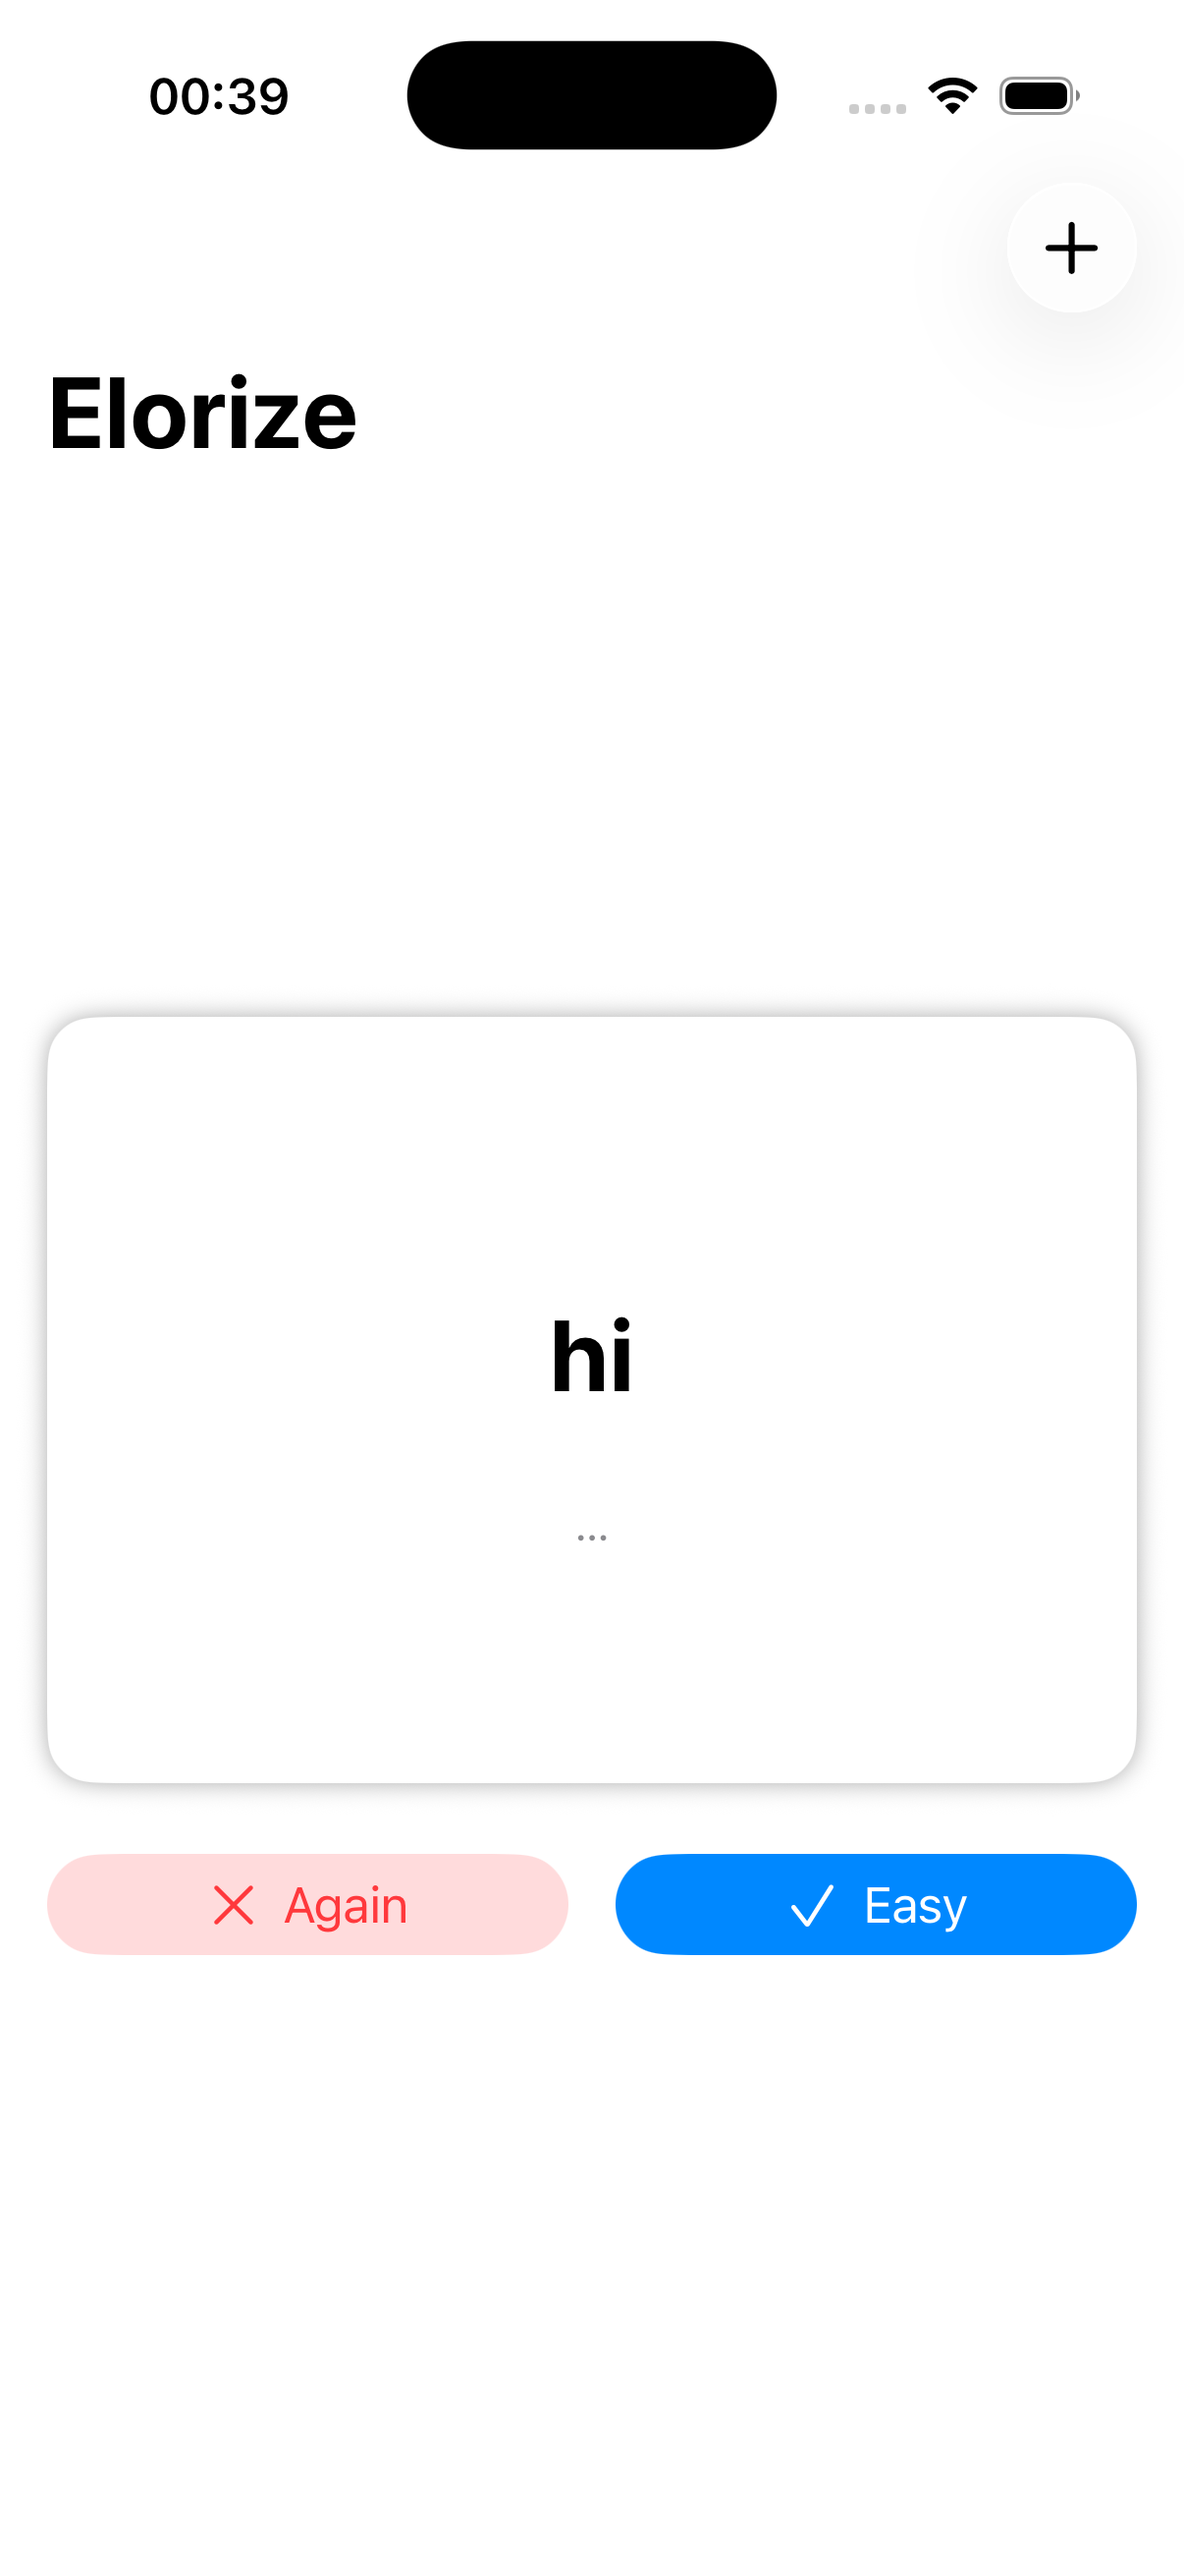
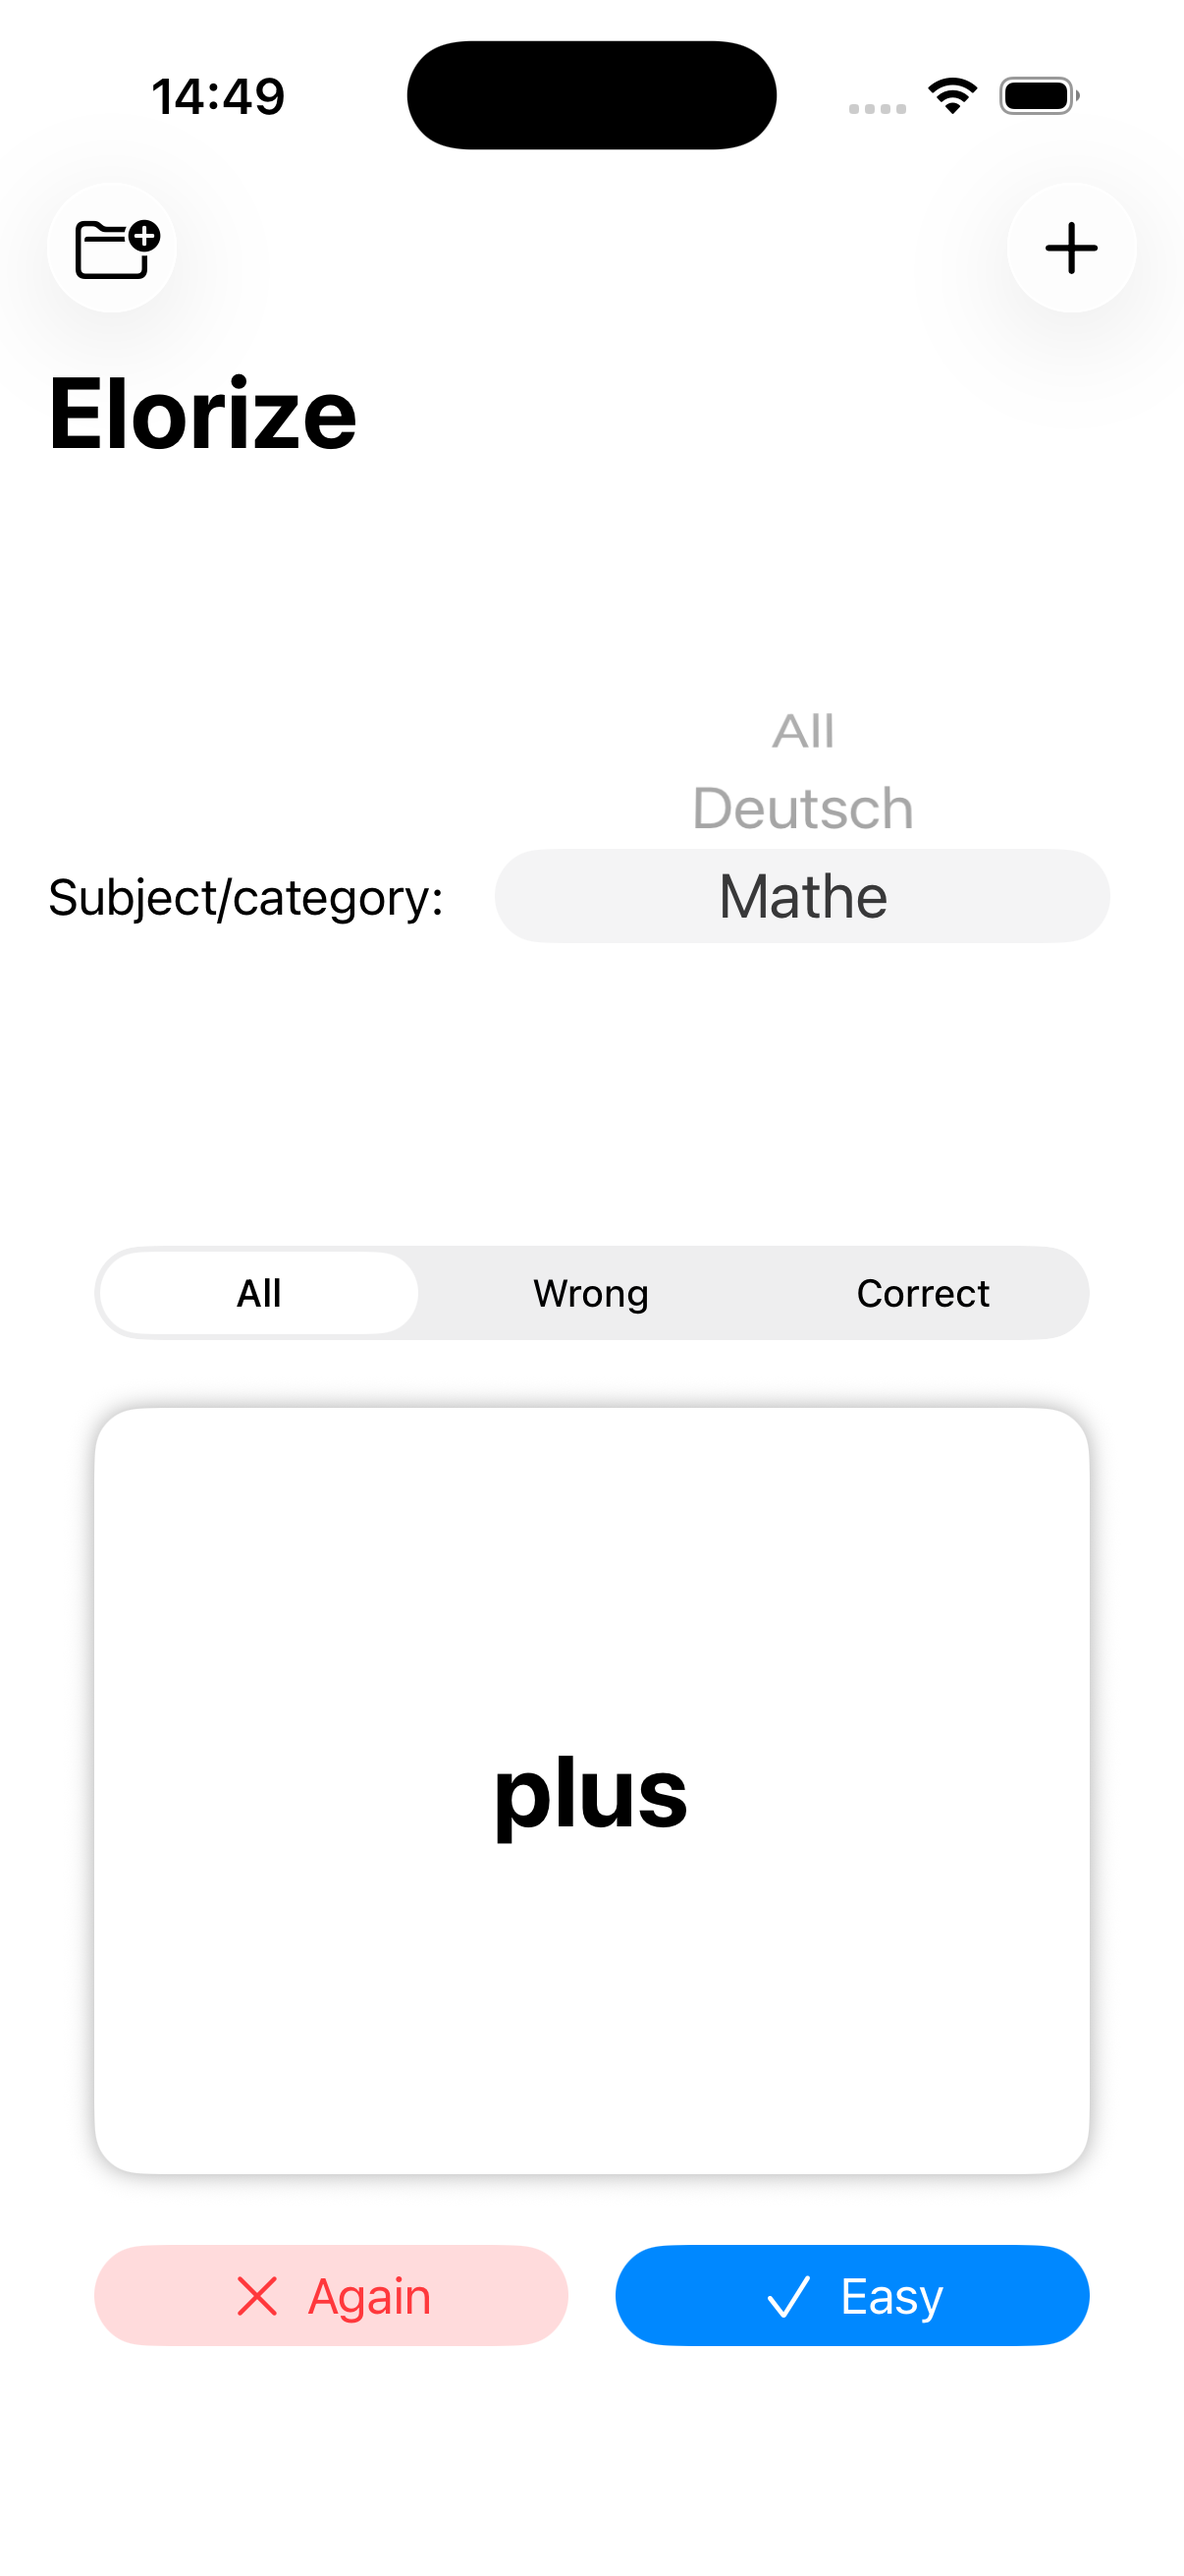
filter cards depending on review

diff --git a/Elorize/HomeView.swift b/Elorize/HomeView.swift
@@ -10,6 +10,9 @@ struct HomeView: View {
 	@State private var showingAddSheet = false
 	@State private var currentIndex = 0
 	
+    enum ReviewFilter: String, CaseIterable, Identifiable { case all = "All", wrong = "Wrong", correct = "Correct"; var id: String { rawValue } }
+    @State private var reviewFilter: ReviewFilter = .all
+	
 	@Query(sort: [SortDescriptor(\SubjectEntity.name, order: .forward)])
 	private var subjects: [SubjectEntity]
 	
@@ -22,6 +25,17 @@ struct HomeView: View {
 			return flashCardEntities // All subjects
 		}
 	}
+    
+	private var filteredByOutcome: [FlashCardEntity] {
+			switch reviewFilter {
+			case .all:
+					return filteredFlashCardEntities
+			case .wrong:
+					return filteredFlashCardEntities.filter { ($0.lastQuality ?? 0) <= 2 }
+			case .correct:
+					return filteredFlashCardEntities.filter { ($0.lastQuality ?? 0) >= 3 }
+			}
+	}
 	
 	@State private var generator = FlashcardGenerator()
 	@State private var reviewer = Reviewer()
@@ -29,34 +43,46 @@ struct HomeView: View {
 	var body: some View {
 		NavigationStack {
 			VStack {
-				if subjects.isEmpty {
-					ContentUnavailableView("No Subjects", systemImage: "folder.badge.questionmark", description: Text("Add a subject to get started."))
-				} else {
-					Picker("Subject", selection: $selectedSubjectID) {
-						Text("All").tag(UUID?.none)
-						ForEach(subjects) { subject in
-							Text(subject.name).tag(Optional(subject.id))
+				HStack {
+					Text("Subject/category:")
+					Spacer()
+					if subjects.isEmpty {
+						ContentUnavailableView("No Subjects", systemImage: "folder.badge.questionmark", description: Text("Add a subject to get started."))
+					} else {
+						Picker("Subject", selection: $selectedSubjectID) {
+							Text("All").tag(UUID?.none)
+							ForEach(subjects) { subject in
+								Text(subject.name).tag(Optional(subject.id))
+							}
 						}
+						.pickerStyle(.inline) // or .menu, depending on space
 					}
-					.pickerStyle(.segmented) // or .menu, depending on space
-					.padding(.horizontal)
 				}
+				Picker("FilterByKnowledge", selection: $reviewFilter) {
+						ForEach(ReviewFilter.allCases) { f in Text(f.rawValue).tag(f) }
+				}
+				.pickerStyle(.segmented)
+				.padding(.horizontal)
+				Spacer()
 				Group {
-					if let entity = generator.nextCardEntity(filteredFlashCardEntities, index: currentIndex) {
+					if let entity = generator.nextCardEntity(filteredByOutcome, index: currentIndex) {
 						FlashCardView(card: entity.value) {
 							reviewer.registerReview(for: entity, quality: 2)
+                            entity.lastQuality = 2
 							try? context.save()
 						} onCorrect: {
 							reviewer.registerReview(for: entity, quality: 5)
+                            entity.lastQuality = 5
 							try? context.save()
 						} onNext: {
-							currentIndex = (currentIndex + 1) % max(1, filteredFlashCardEntities.count)
+							currentIndex = (currentIndex + 1) % max(1, filteredByOutcome.count)
 						}
 					} else {
 						ContentUnavailableView("No Cards", systemImage: "rectangle.on.rectangle.slash", description: Text("Add your first flashcard to get started."))
 					}
 				}
 			}
+			.padding()
 			.navigationTitle("Elorize")
 			.toolbar {
 				ToolbarItem(placement: .topBarLeading) {

diff --git a/Elorize/Flashcard/FlashCardEntity.swift b/Elorize/Flashcard/FlashCardEntity.swift
@@ -23,6 +23,7 @@ public final class FlashCardEntity {
 	public var easeFactor: Double
 	public var intervalDays: Int
 	public var consecutiveCorrect: Int
+	public var lastQuality: Int?
 
 	public init(
 		id: UUID = UUID(),
@@ -34,7 +35,8 @@ public final class FlashCardEntity {
 		lastReviewedAt: Date? = nil,
 		easeFactor: Double = 2.5,
 		intervalDays: Int = 0,
-		consecutiveCorrect: Int = 0
+		consecutiveCorrect: Int = 0,
+		lastQuality: Int? = nil
 	) {
 		self.id = id
 		self.front = front
@@ -46,6 +48,7 @@ public final class FlashCardEntity {
 		self.easeFactor = max(1.3, easeFactor)
 		self.intervalDays = max(0, intervalDays)
 		self.consecutiveCorrect = max(0, consecutiveCorrect)
+		self.lastQuality = lastQuality
 	}
 }
 
@@ -62,7 +65,8 @@ public extension FlashCardEntity {
 			lastReviewedAt: card.lastReviewedAt,
 			easeFactor: card.easeFactor,
 			intervalDays: card.intervalDays,
-			consecutiveCorrect: card.consecutiveCorrect
+			consecutiveCorrect: card.consecutiveCorrect,
+			lastQuality: nil
 		)
 		self.subject = subject
 	}
